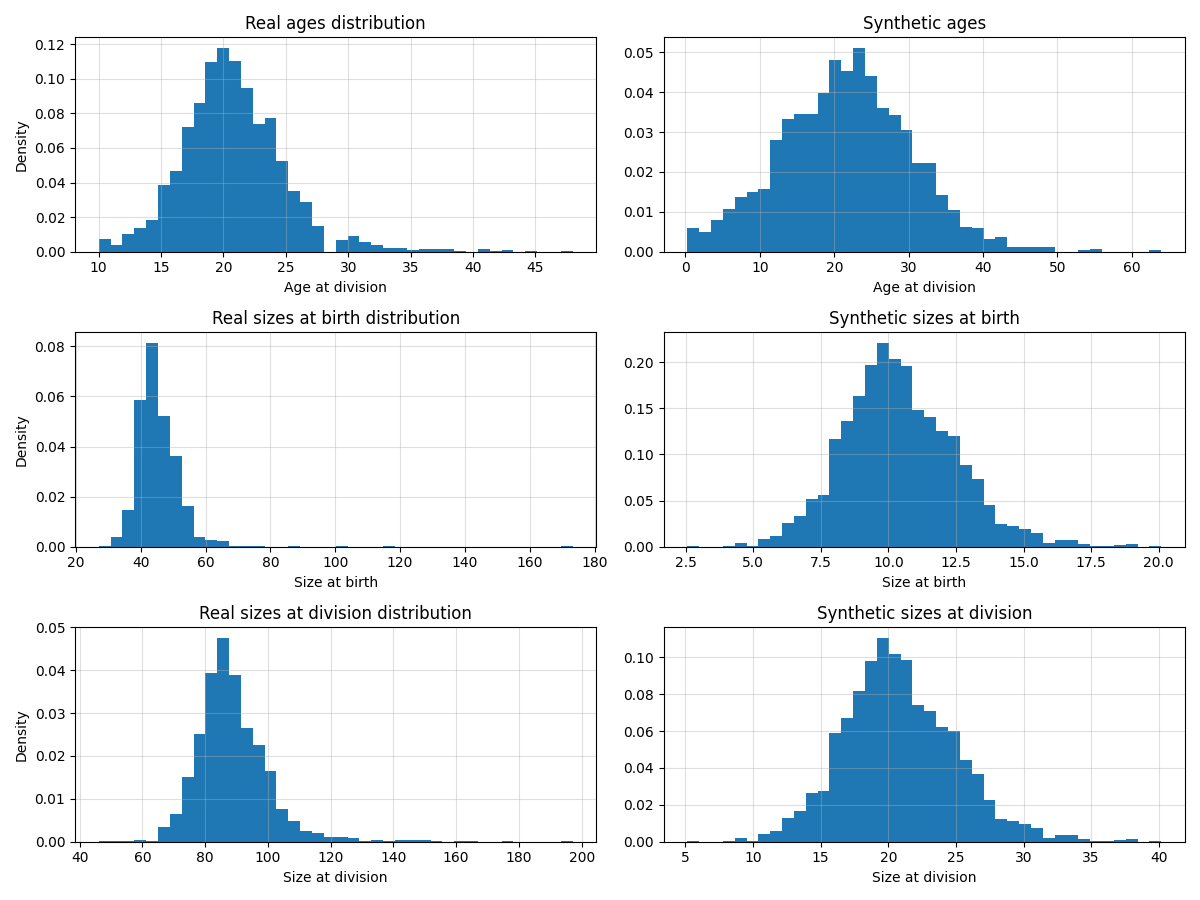
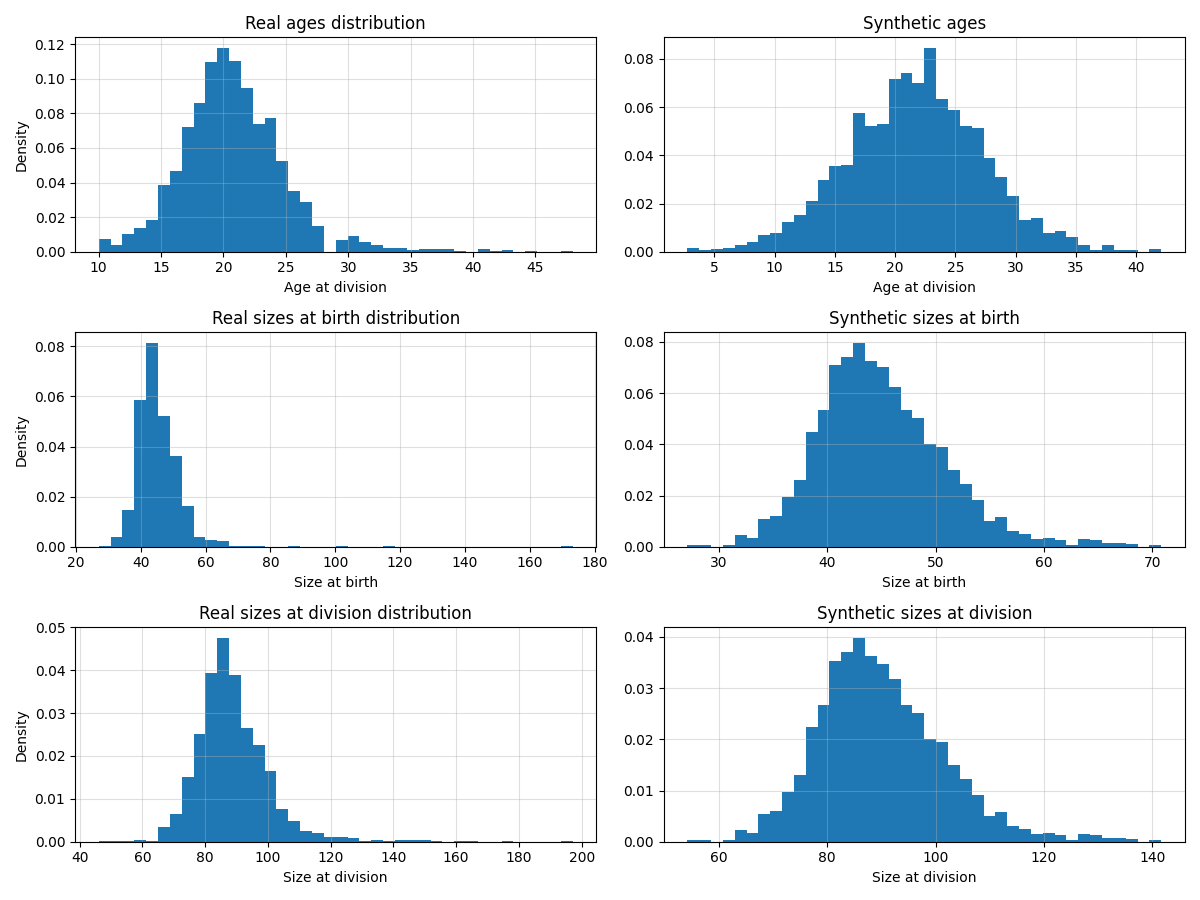
size estimator almost perfect!

diff --git a/tmp_estimators.py b/tmp_estimators.py
@@ -19,7 +19,7 @@ def grid_search_alpha(observations, estimator, alpha_grid, simulator, growth_rat
         np.random.seed(42) #same randomness for all samples
         B_hat = estimator(obs, alpha)[1] #[1] for function instead of np.array
         index = 0 if age_or_size=="age" else 2
-        simulated_data = simulator(Xbar=Xbar, v_max=v_max, B_func=B_hat, growth_rate=growth_rate, num_samples=len(obs), burn_in=0)[:,index]
+        simulated_data = simulator(Xbar=Xbar, v_max=v_max, B_func=B_hat, growth_rate=growth_rate, num_samples=len(obs), burn_in=1000)[1000:,index]
         dist = wasserstein_distance(obs, simulated_data) 
         results.append(dist)
 
@@ -35,7 +35,7 @@ def grid_search_alpha(observations, estimator, alpha_grid, simulator, growth_rat
 
 if __name__ == "__main__":
 
-    test_age = True
+    test_age = False
     test_size = True
 
     PATH_LIN = "data/lin_Lydia2901_new_MDJ_ad_sb_sd.txt"
@@ -50,6 +50,7 @@ if __name__ == "__main__":
     growth_rate = 0.032 #according to regression
     alpha_grid = np.linspace(0.01, 2, 101)
 
+    burn_in = 200
 
 
     if test_age:
@@ -59,7 +60,7 @@ if __name__ == "__main__":
         plot_main_results(alpha_grid, dist_hist, best_alpha, real_A, Best_B_hat, output_path, "age")
         
         np.random.seed(42)
-        synthetic_data = simulate_lineage_age(Xbar, a_max, Best_B_hat, growth_rate, 2000)
+        synthetic_data = simulate_lineage_age(Xbar, a_max, Best_B_hat, growth_rate, 2000, burn_in=burn_in)[burn_in:,:]
         synthetic_A = synthetic_data[:,0]
         synthetic_Xb = synthetic_data[:,1]
         synthetic_Xd = synthetic_data[:,2]
@@ -80,12 +81,12 @@ if __name__ == "__main__":
     
 
     if test_size:
-        best_alpha, dist_hist, Best_B_hat_normalized = grid_search_alpha(real_Xb, B_lineage_size, alpha_grid, simulate_lineage_size, growth_rate, x_max, Xbar, "size")
+        best_alpha, dist_hist, Best_B_hat = grid_search_alpha(real_Xb, B_lineage_size, alpha_grid, simulate_lineage_size, growth_rate, x_max, Xbar, "size")
         output_path = "7_kernel_lineage_size.png"
         plot_main_results(alpha_grid, dist_hist, best_alpha, real_Xb, Best_B_hat, output_path, "size")
         
         np.random.seed(42)
-        synthetic_size_data = simulate_lineage_size(Xbar, Best_B_hat, growth_rate, 2000, x_max, burn_in=200)
+        synthetic_size_data = simulate_lineage_size(Xbar, Best_B_hat, growth_rate, 2000, x_max, burn_in=burn_in)[burn_in:,:]
         synthetic_A = synthetic_size_data[:,0]
         synthetic_Xb = synthetic_size_data[:,1]
         synthetic_Xd = synthetic_size_data[:,2]
